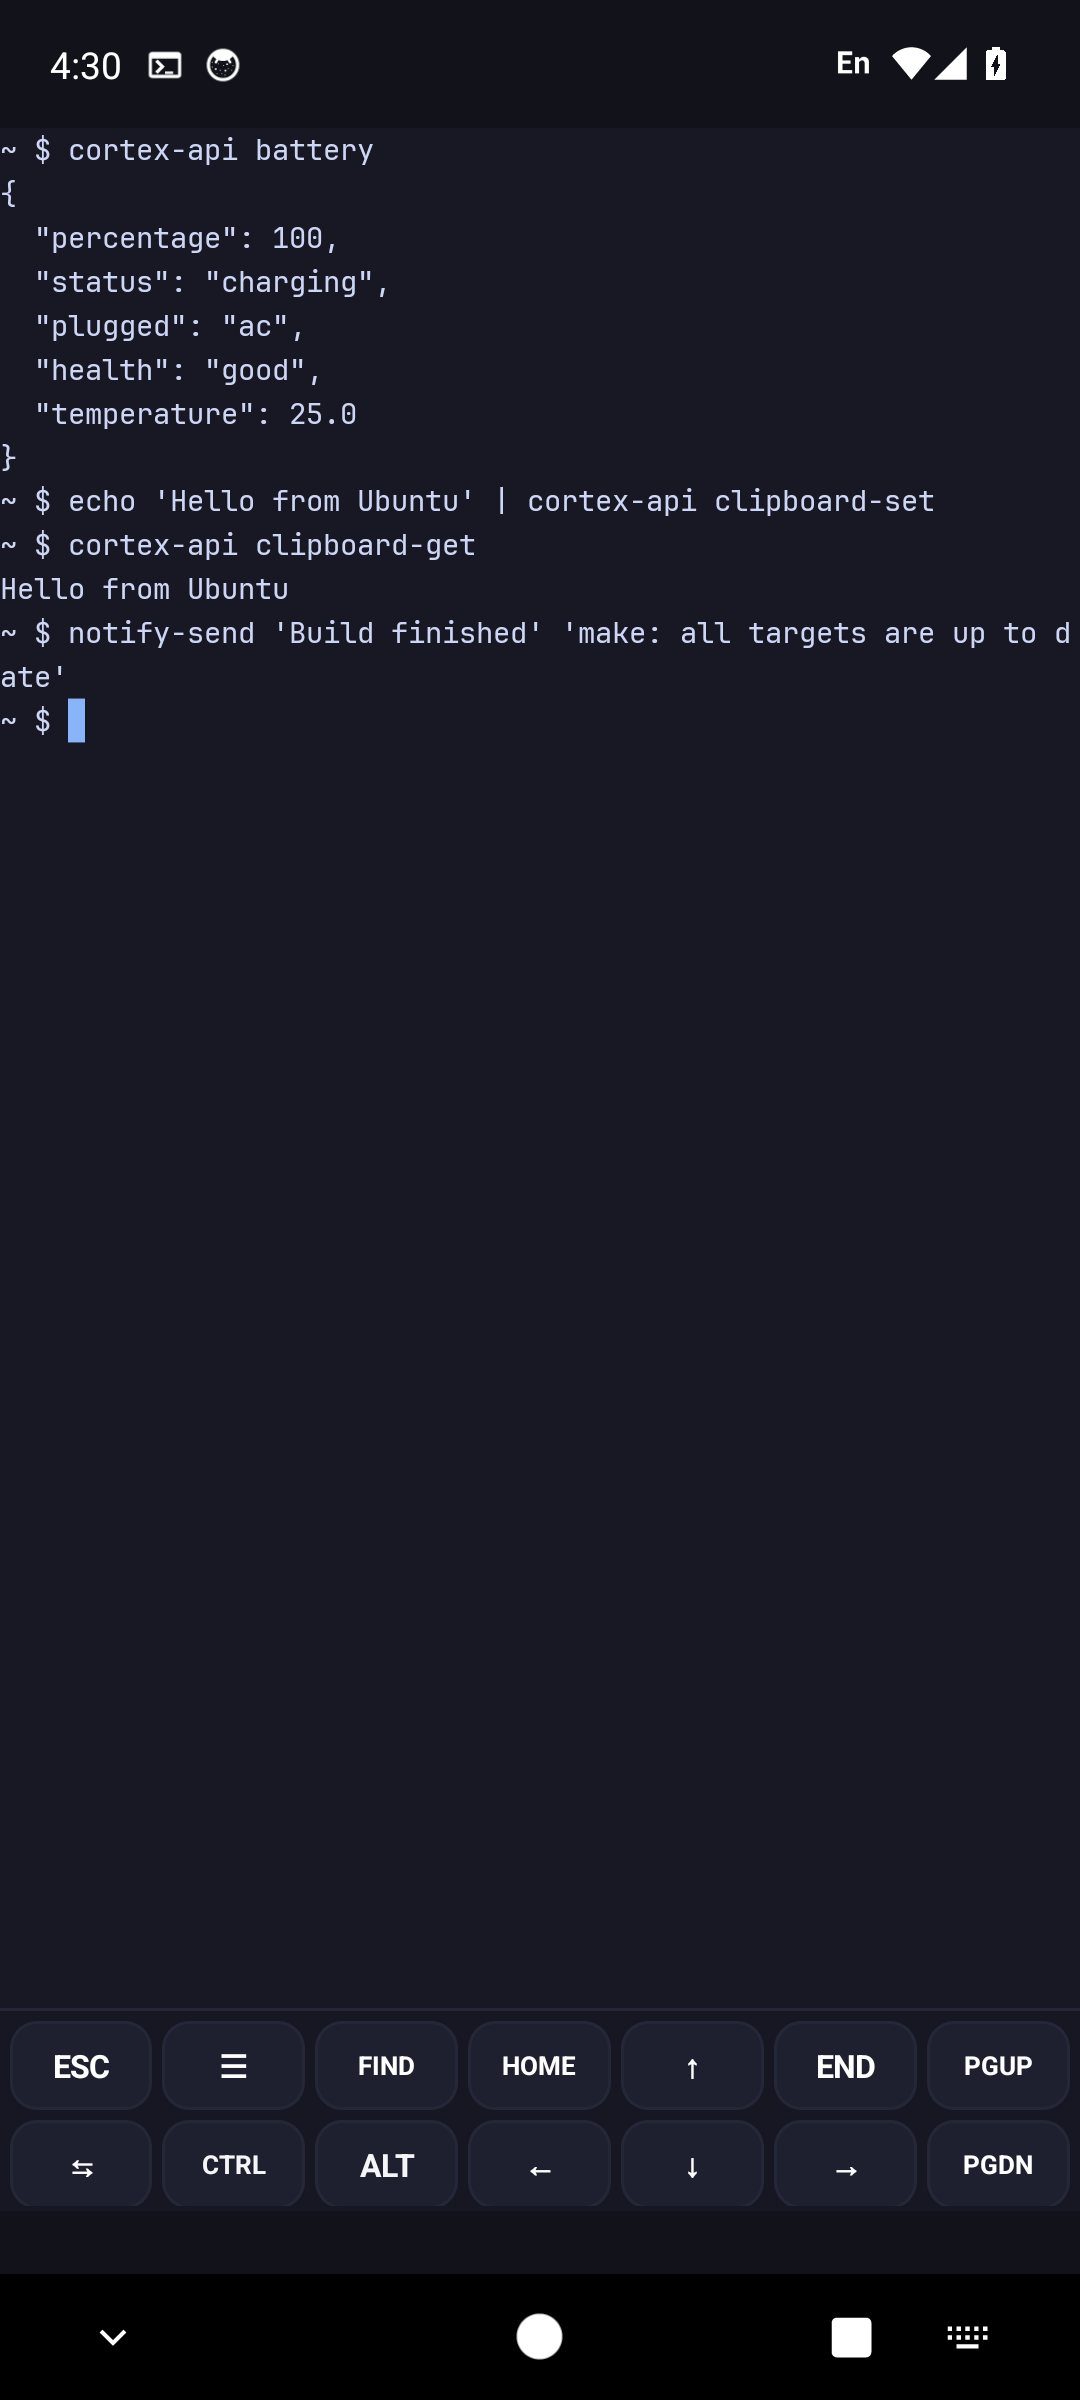
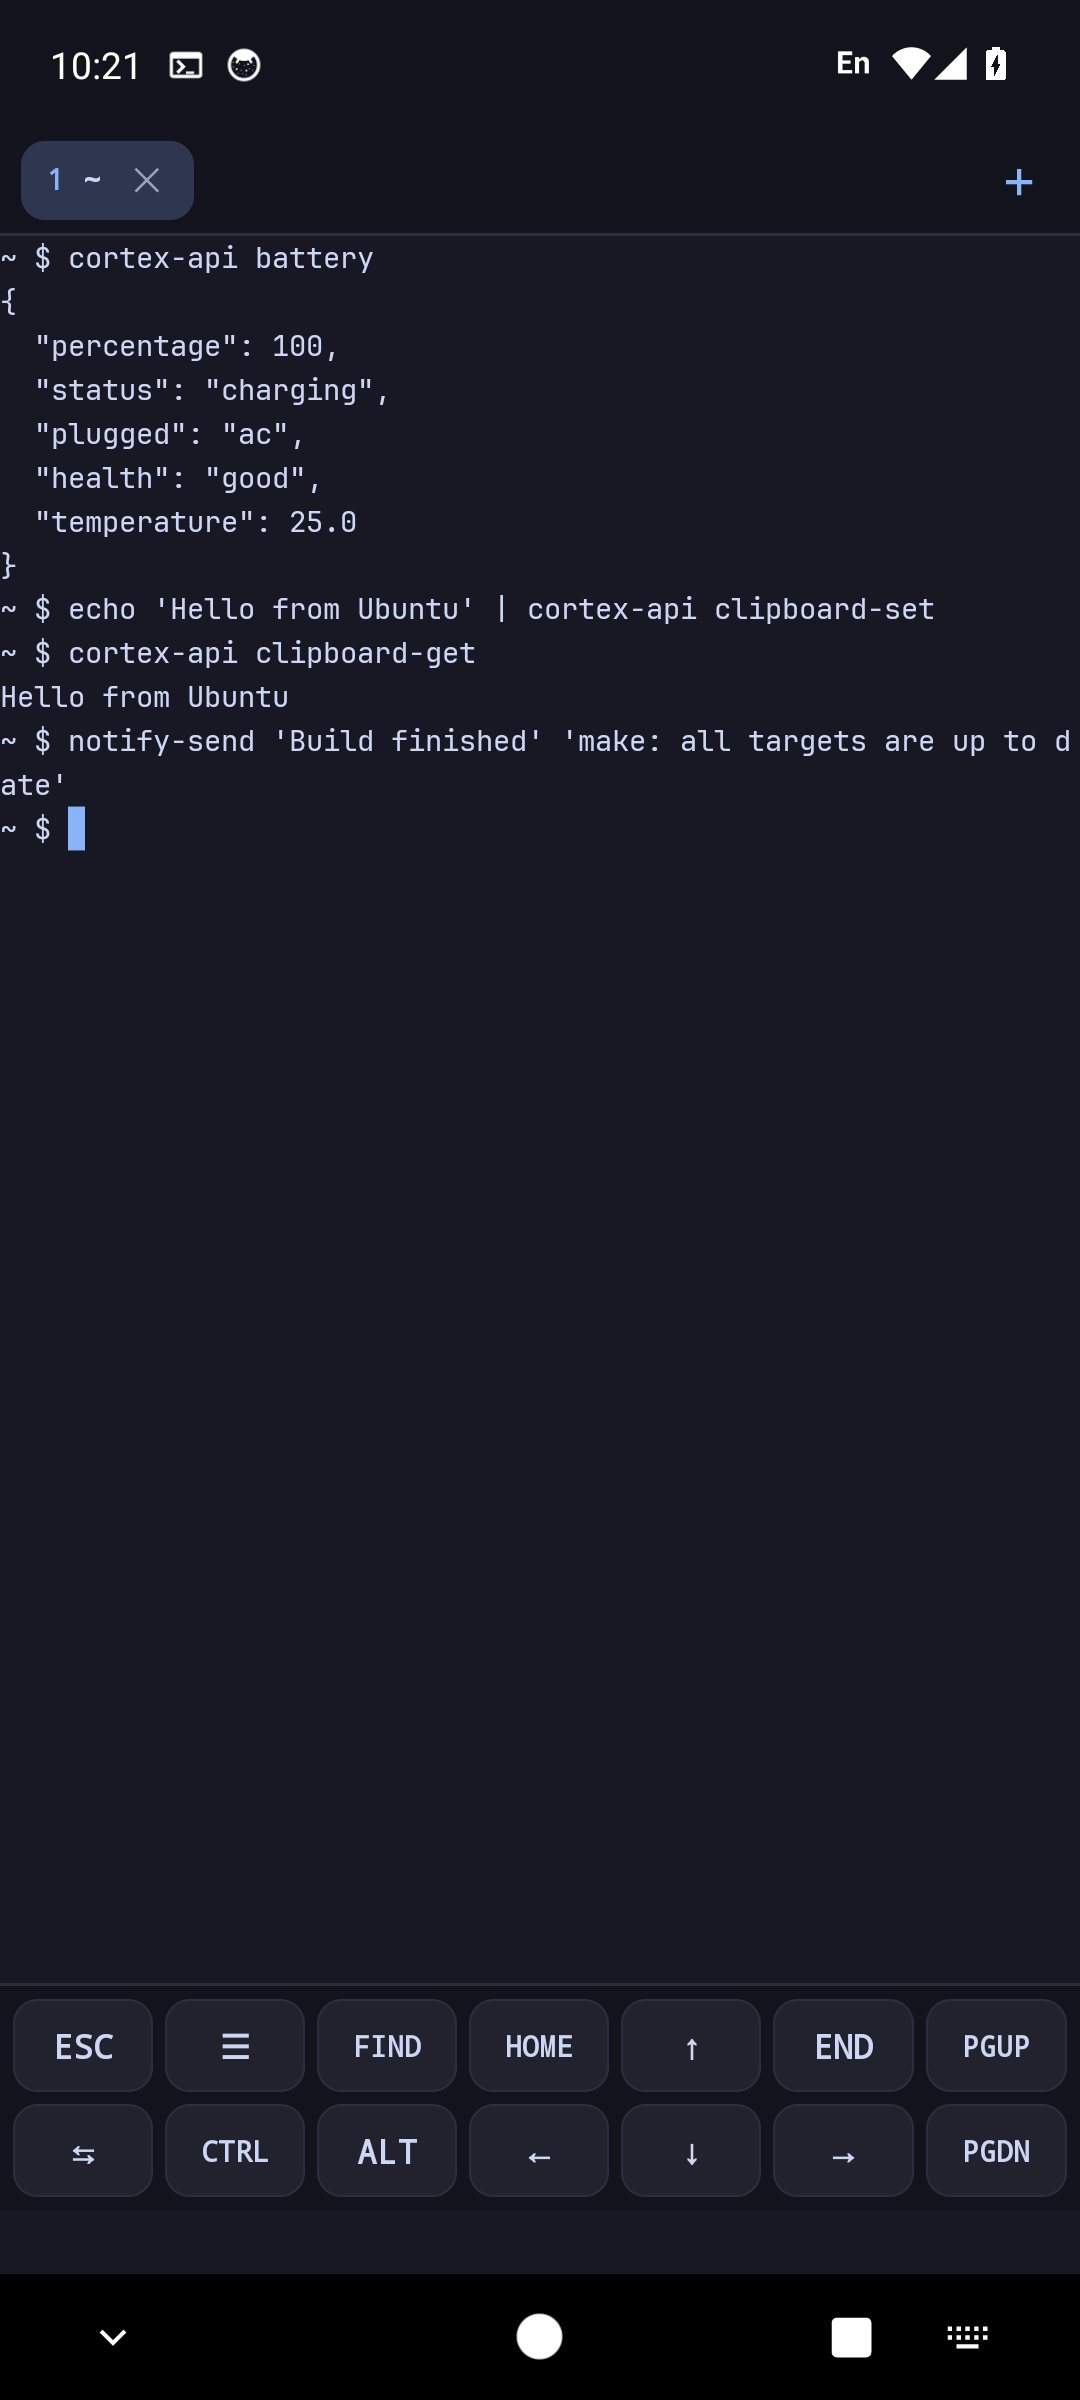
README and website: screenshots of the new interface, and the scheme picker
Claude-Session: https://claude.ai/code/session_015ikNQ3wLwYR63nX2KuiQNW

diff --git a/docs/index.html b/docs/index.html
@@ -104,9 +104,10 @@ footer{border-top:1px solid var(--line);margin-top:56px;padding:26px 0 48px;colo
     <a class="btn alt" href="https://github.com/ssfuisu/cortex">View on GitHub</a>
     <div class="shots">
       <img src="screenshots/cortex-neofetch.jpg" width="1080" height="2400" loading="lazy" alt="neofetch in Cortex Terminal showing Ubuntu 24.04 LTS running natively on an Android phone">
-      <img src="screenshots/cortex-keyboard.jpg" width="1080" height="2400" loading="lazy" alt="Cortex Terminal virtual keyboard toolbar with ESC, TAB, CTRL, ALT and arrow keys">
+      <img src="screenshots/cortex-keyboard.jpg" width="1080" height="2400" loading="lazy" alt="Cortex Terminal with its session tabs, a command's results and the two rows of keys: ESC, TAB, CTRL, ALT and the arrows">
       <img src="screenshots/cortex-api.jpg" width="1080" height="2400" loading="lazy" alt="cortex-api in the terminal: the battery state as JSON, the Android clipboard and notify-send">
-      <img src="screenshots/cortex-sessions.jpg" width="1080" height="2400" loading="lazy" alt="The sessions drawer of Cortex Terminal with the settings and new session buttons">
+      <img src="screenshots/cortex-sessions.jpg" width="1080" height="2400" loading="lazy" alt="The drawer of Cortex Terminal: one card for each session with its directory, and the New session button">
+      <img src="screenshots/cortex-themes.jpg" width="1080" height="2400" loading="lazy" alt="The color scheme picker: every scheme shown as a bit of terminal in its own colors">
     </div>
   </div>
 </header>

diff --git a/README.md b/README.md
@@ -14,8 +14,13 @@ Cortex is a free and open-source terminal app and a native alternative to Termux
 
 <p align="center">
   <img src="docs/screenshots/cortex-neofetch.jpg" width="31%" alt="neofetch in Cortex Terminal showing Ubuntu 24.04 LTS running natively on an Android phone" />
-  <img src="docs/screenshots/cortex-keyboard.jpg" width="31%" alt="Cortex Terminal virtual keyboard toolbar with ESC, TAB, CTRL, ALT and arrow keys" />
+  <img src="docs/screenshots/cortex-keyboard.jpg" width="31%" alt="Cortex Terminal with its session tabs, a command's results and the two rows of keys: ESC, TAB, CTRL, ALT and the arrows" />
   <img src="docs/screenshots/cortex-api.jpg" width="31%" alt="cortex-api in the terminal: the battery state as JSON, the Android clipboard and notify-send" />
+</p>
+
+<p align="center">
+  <img src="docs/screenshots/cortex-sessions.jpg" width="31%" alt="The drawer of Cortex Terminal: one card for each session with its directory, and the New session button" />
+  <img src="docs/screenshots/cortex-themes.jpg" width="31%" alt="The color scheme picker: every scheme shown as a bit of terminal in its own colors" />
 </p>
 
 ## What is Cortex?
